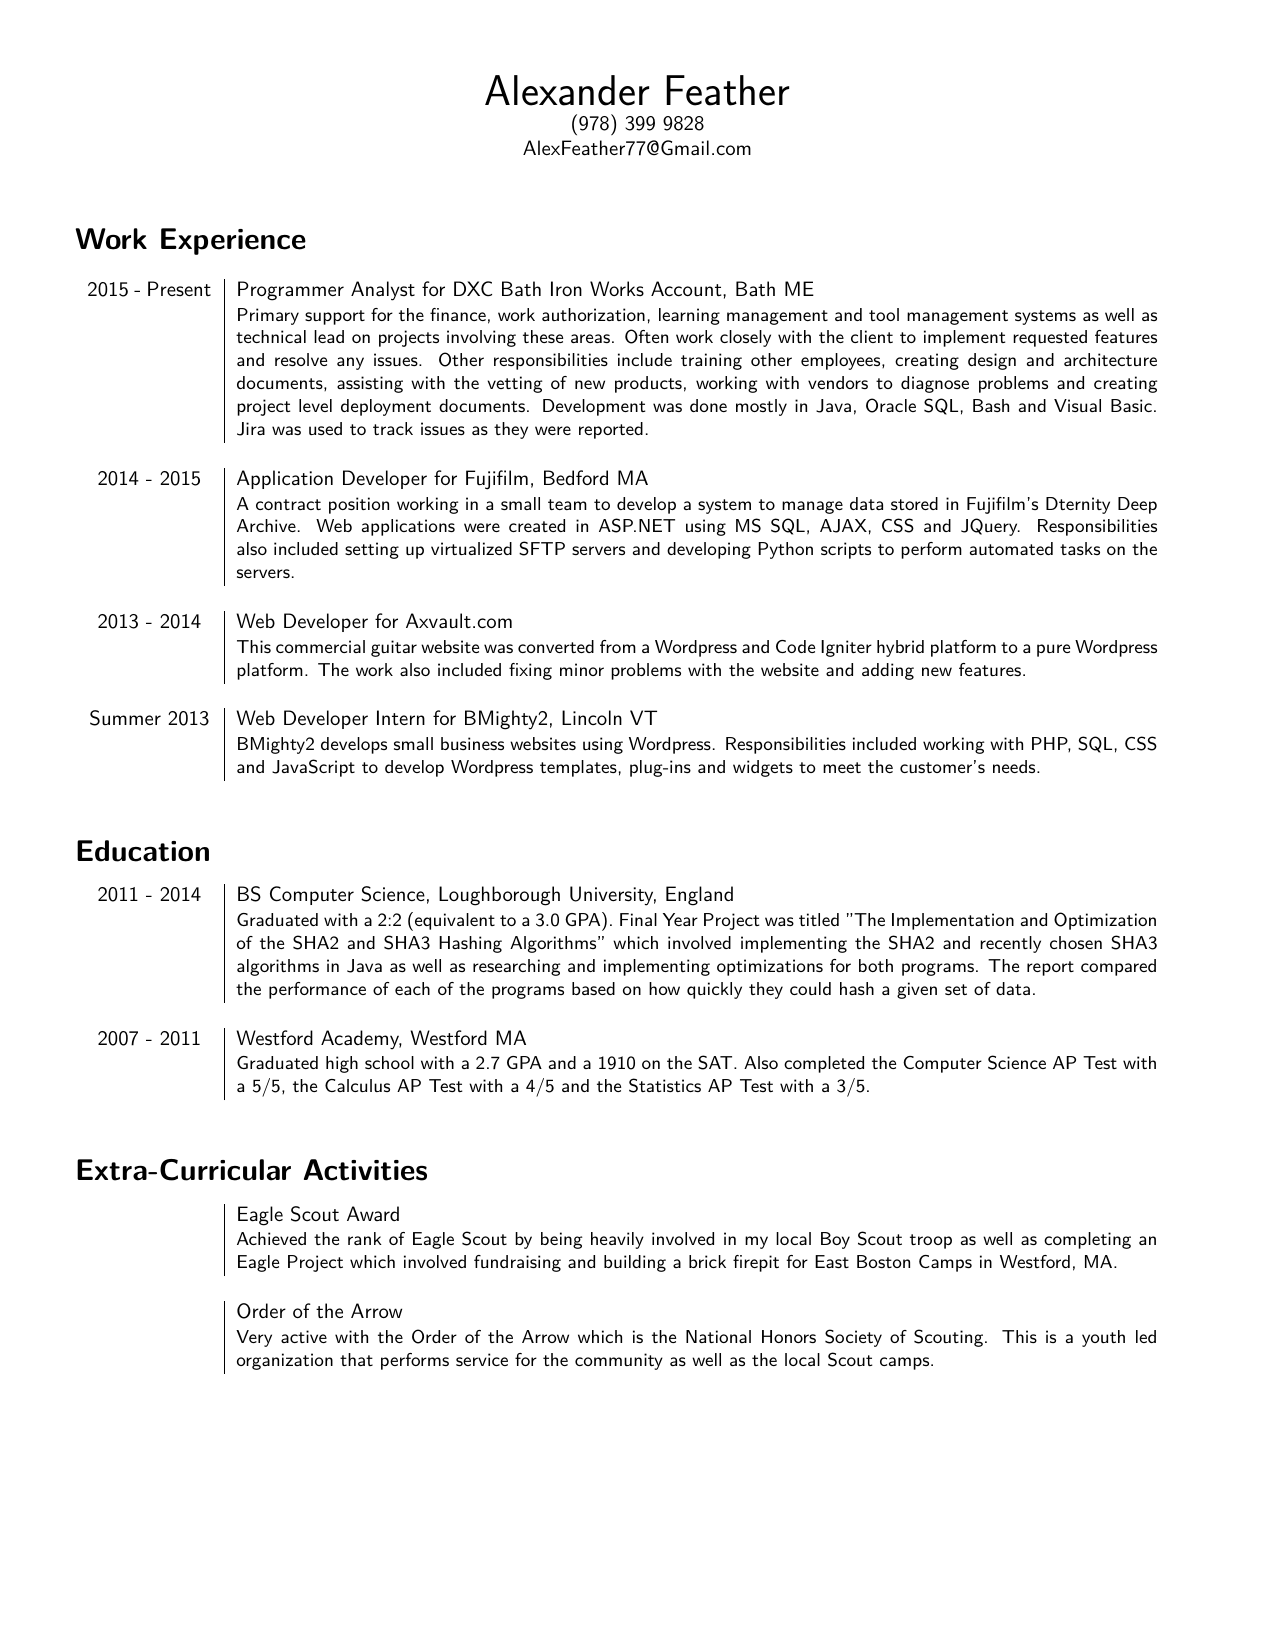
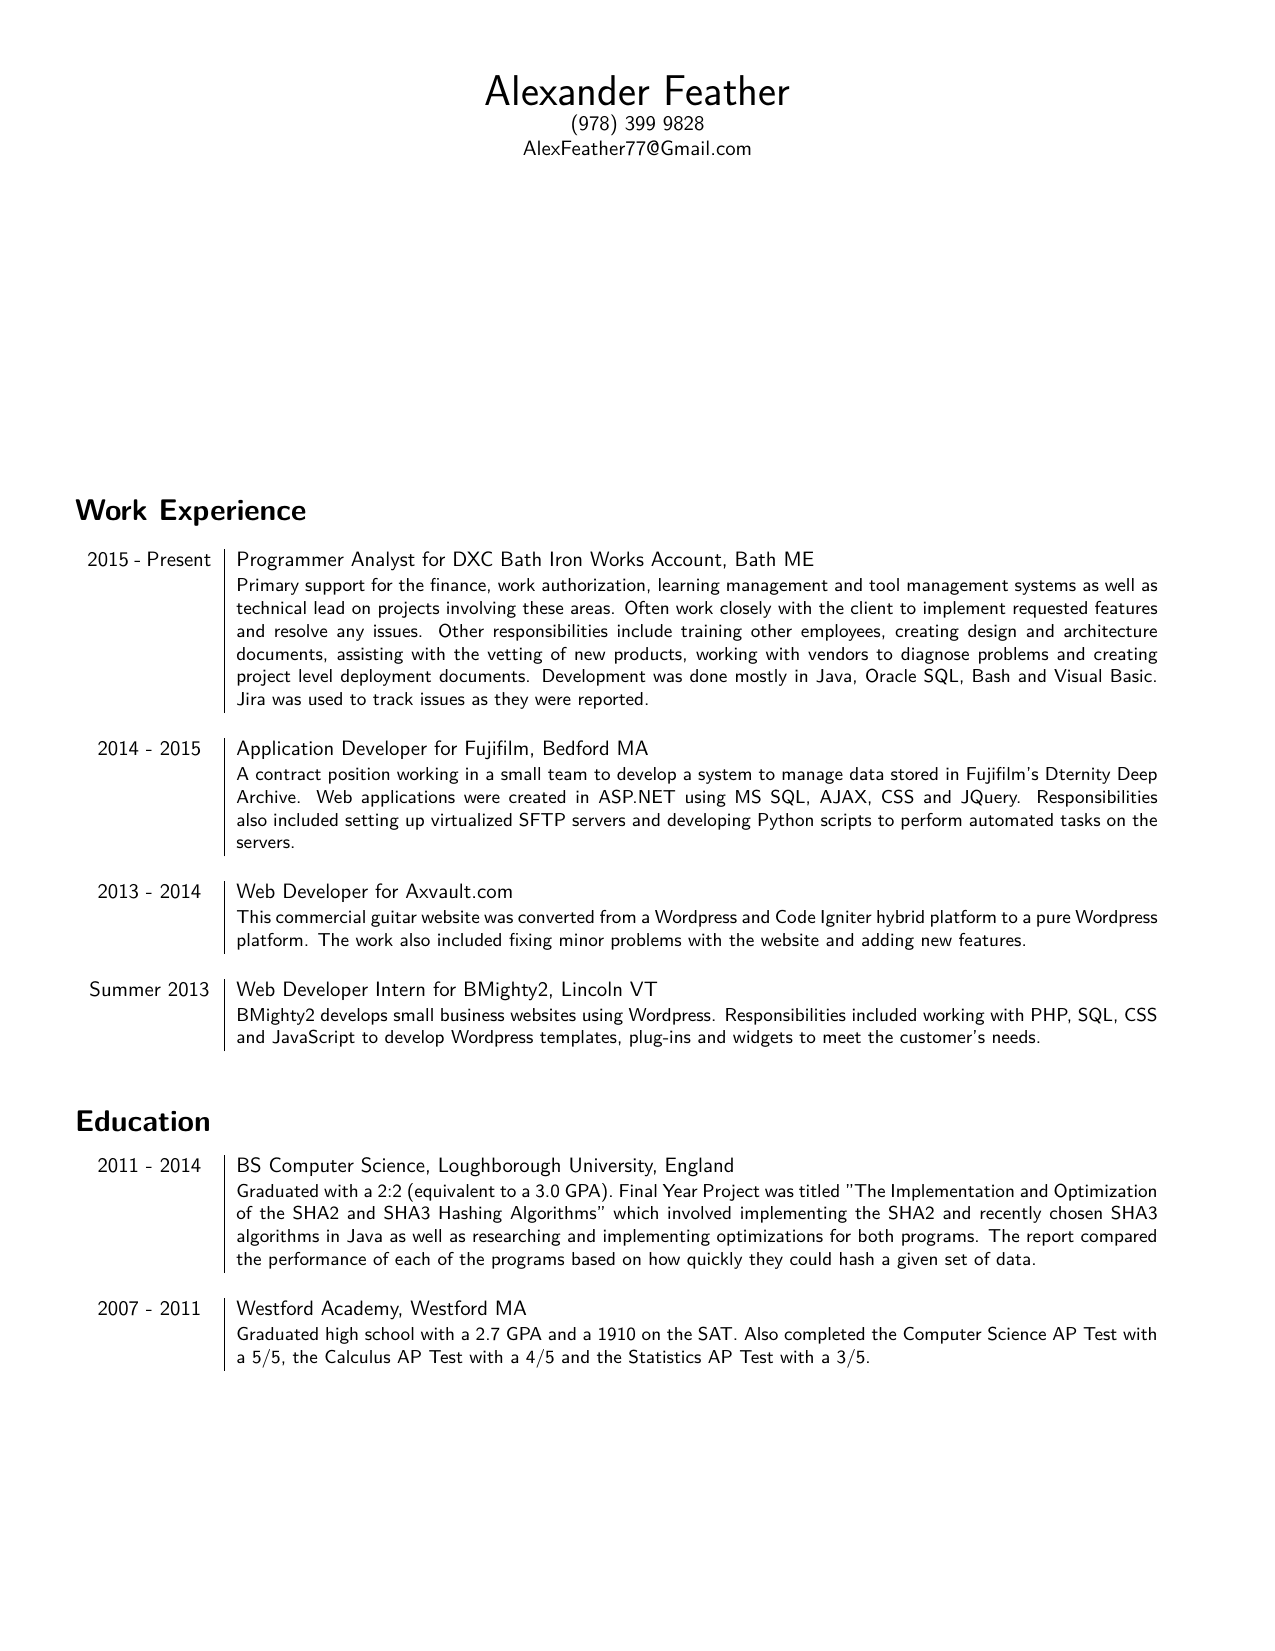
Updated Resume Files

diff --git a/Resume.tex b/Resume.tex
@@ -9,7 +9,7 @@
 
 {\centering{\huge Alexander Feather}\\
 (978) 399 9828\\AlexFeather77@Gmail.com\\}
-\bigskip
+\vspace{5cm}
 \section*{\fontfamily{lmss}\selectfont Work Experience}
 \begin{tabular}{p{2.1cm}|p{15.6cm}}
 	2015 - Present & Programmer Analyst for DXC Bath Iron Works Account, Bath ME\\&\small{Primary support for the finance, work authorization, learning management and tool management systems as well as technical lead on projects involving these areas. Often work closely with the client to implement requested features and resolve any issues. Other responsibilities include training other employees, creating design and architecture documents, assisting with the vetting of new products, working with vendors to diagnose problems and creating project level deployment documents. Development was done mostly in Java, Oracle SQL, Bash and Visual Basic. Jira was used to track issues as they were reported.}\\\multicolumn{2}{c}{} \\
